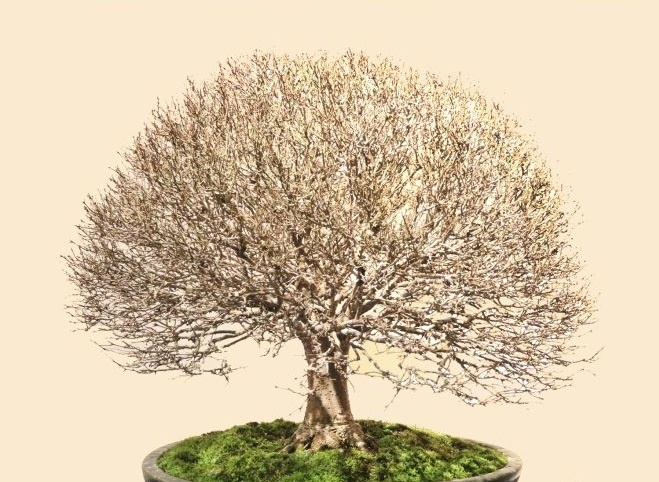
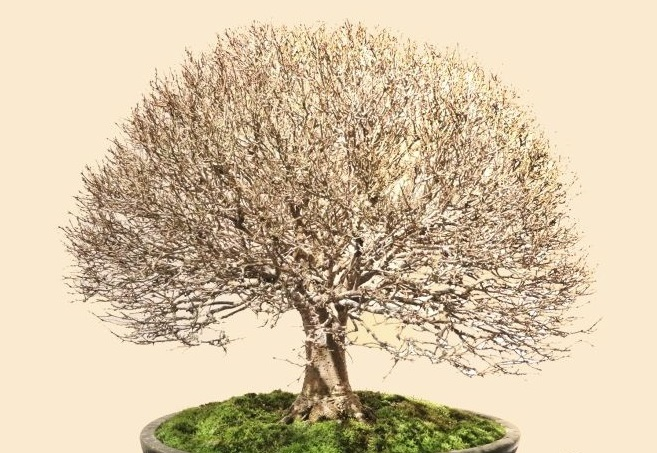
picture

diff --git a/index.html b/index.html
@@ -8,7 +8,7 @@
 
     <!-- Bootstrap CSS -->
     <link rel="stylesheet" href="css/bootstrap.min.css">
-    <link href="Styles.css" rel="stylesheet" type="text/css">
+<link href="css/Styles.css" rel="stylesheet" type="text/css">
 <title>Styles of bomsai trees</title>
 </head>
 	
@@ -65,7 +65,7 @@
 	  
   	<div class="row my-borders">
    	 <div class="col-lg-6 col-sm-12 col-md-12"> 
-			  <img src="images/S-shape bonsai.jpg" alt="Curve ascending" width="500" class="img-fluid">
+			  <img src="images/S-shape bonsai.jpg" alt="Curve ascending" width="800" class="img-fluid">
 		</div>
     		<div class="col-lg-6 col-sm-12 col-md-12">
 				 
@@ -95,7 +95,6 @@
 	  				</div>
   	</div>
 		<footer>
-		<br>
 		<a href="">Information on maintaining a Bomsai </a> 
 		</footer>
 			
